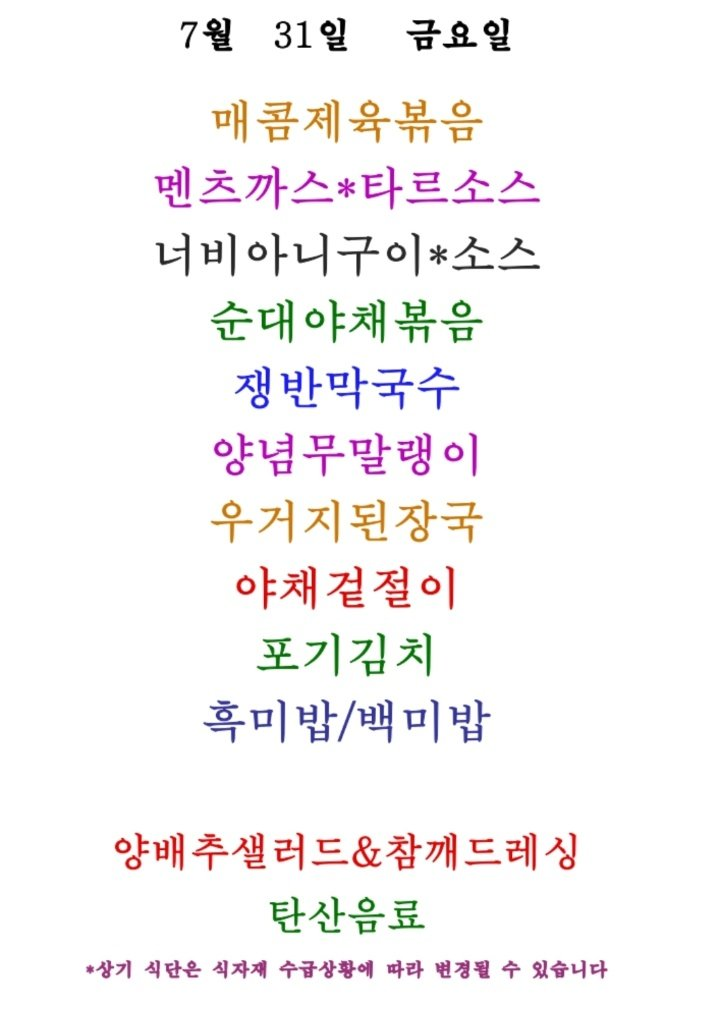
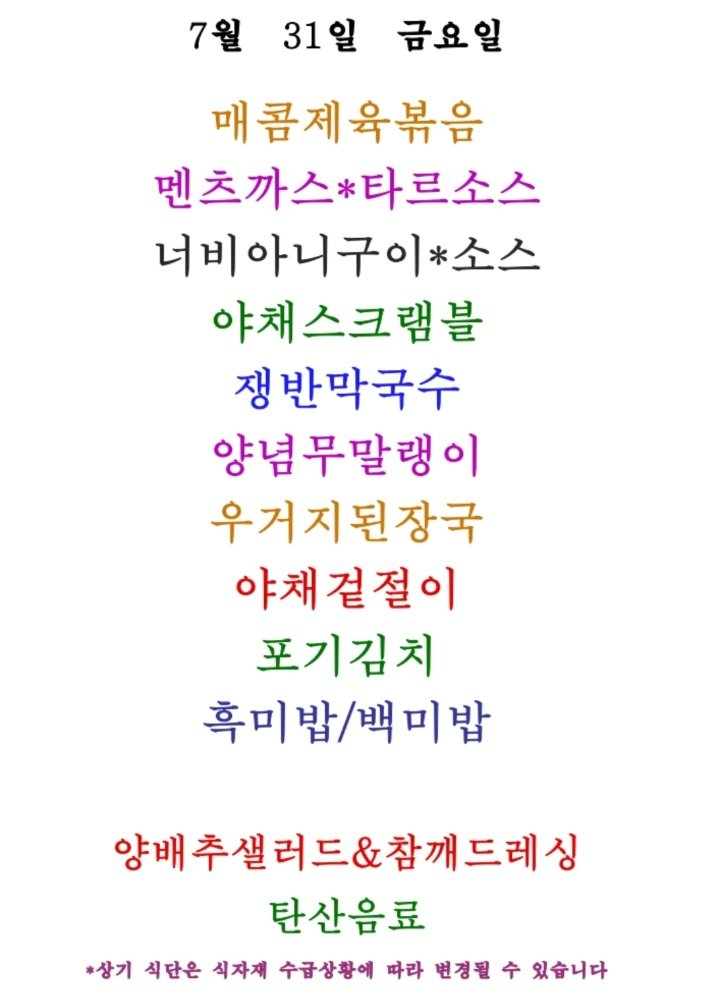
Update menu board assets

diff --git a/guro-menu/index.html b/guro-menu/index.html
@@ -32,7 +32,7 @@
   </header>
   <section class="meta">
     <div><small>기준 날짜</small><strong>2026년 7월 31일 금요일</strong></div>
-    <div><small>최종 갱신</small><strong>2026-07-31 10:48:10</strong></div>
+    <div><small>최종 갱신</small><strong>2026-07-31 11:03:47</strong></div>
     <div><small>등록 식당</small><strong>5개</strong></div>
   </section>
   <div class="notice">공개 카카오 채널의 메뉴 이미지를 자동 수집하고 OCR로 정리합니다. 텍스트에 오타가 있을 수 있으니 식단 이미지를 함께 확인해 주세요.</div>
@@ -48,7 +48,7 @@
         </div>
         <img class="menu-image" src="./images/hanshin-it.png" alt="한신IT타워 구내식당 식단 이미지" loading="lazy">
         
-        <ul><li>매콤제육볶음</li><li>멘츠까스*타르소스</li><li>너비아니구이*소스</li><li>순대야채볶음</li><li>쟁반막국수</li><li>양념무말랭이</li><li>우거지된장국</li><li>야채겉절이</li><li>포기김치</li><li>흑미밥/백미밥</li><li>양배추샐러드&amp;참깨드레싱</li><li>탄산음료</li></ul>
+        <ul><li>매콤제육볶음</li><li>멘츠까스*타르소스</li><li>너비아니구이*소스</li><li>야채스크햄을</li><li>쟁반막국수</li><li>양념무말랭이</li><li>우거지된장국</li><li>야채겉절이</li><li>포기김치</li><li>흑미밥/백미밥</li><li>양배추샐러드&amp;참깨드레싱</li><li>탄산음료</li></ul>
       </article>
 
       <article class="restaurant-card">

diff --git a/menu-today/index.html b/menu-today/index.html
@@ -209,7 +209,7 @@
 
     <section class="meta-bar">
       <div class="meta-card"><div class="meta-label">기준 날짜</div><div class="meta-value">2026년 7월 31일 금요일</div></div>
-      <div class="meta-card"><div class="meta-label">최종 가져온 시간</div><div class="meta-value">2026-07-31 10:47:58</div></div>
+      <div class="meta-card"><div class="meta-label">최종 가져온 시간</div><div class="meta-value">2026-07-31 11:03:34</div></div>
       <div class="meta-card"><div class="meta-label">확인 완료</div><div class="meta-value">9개 식당</div></div>
       <div class="meta-card"><div class="meta-label">준비중</div><div class="meta-value">3개 채널</div></div>
     </section>
